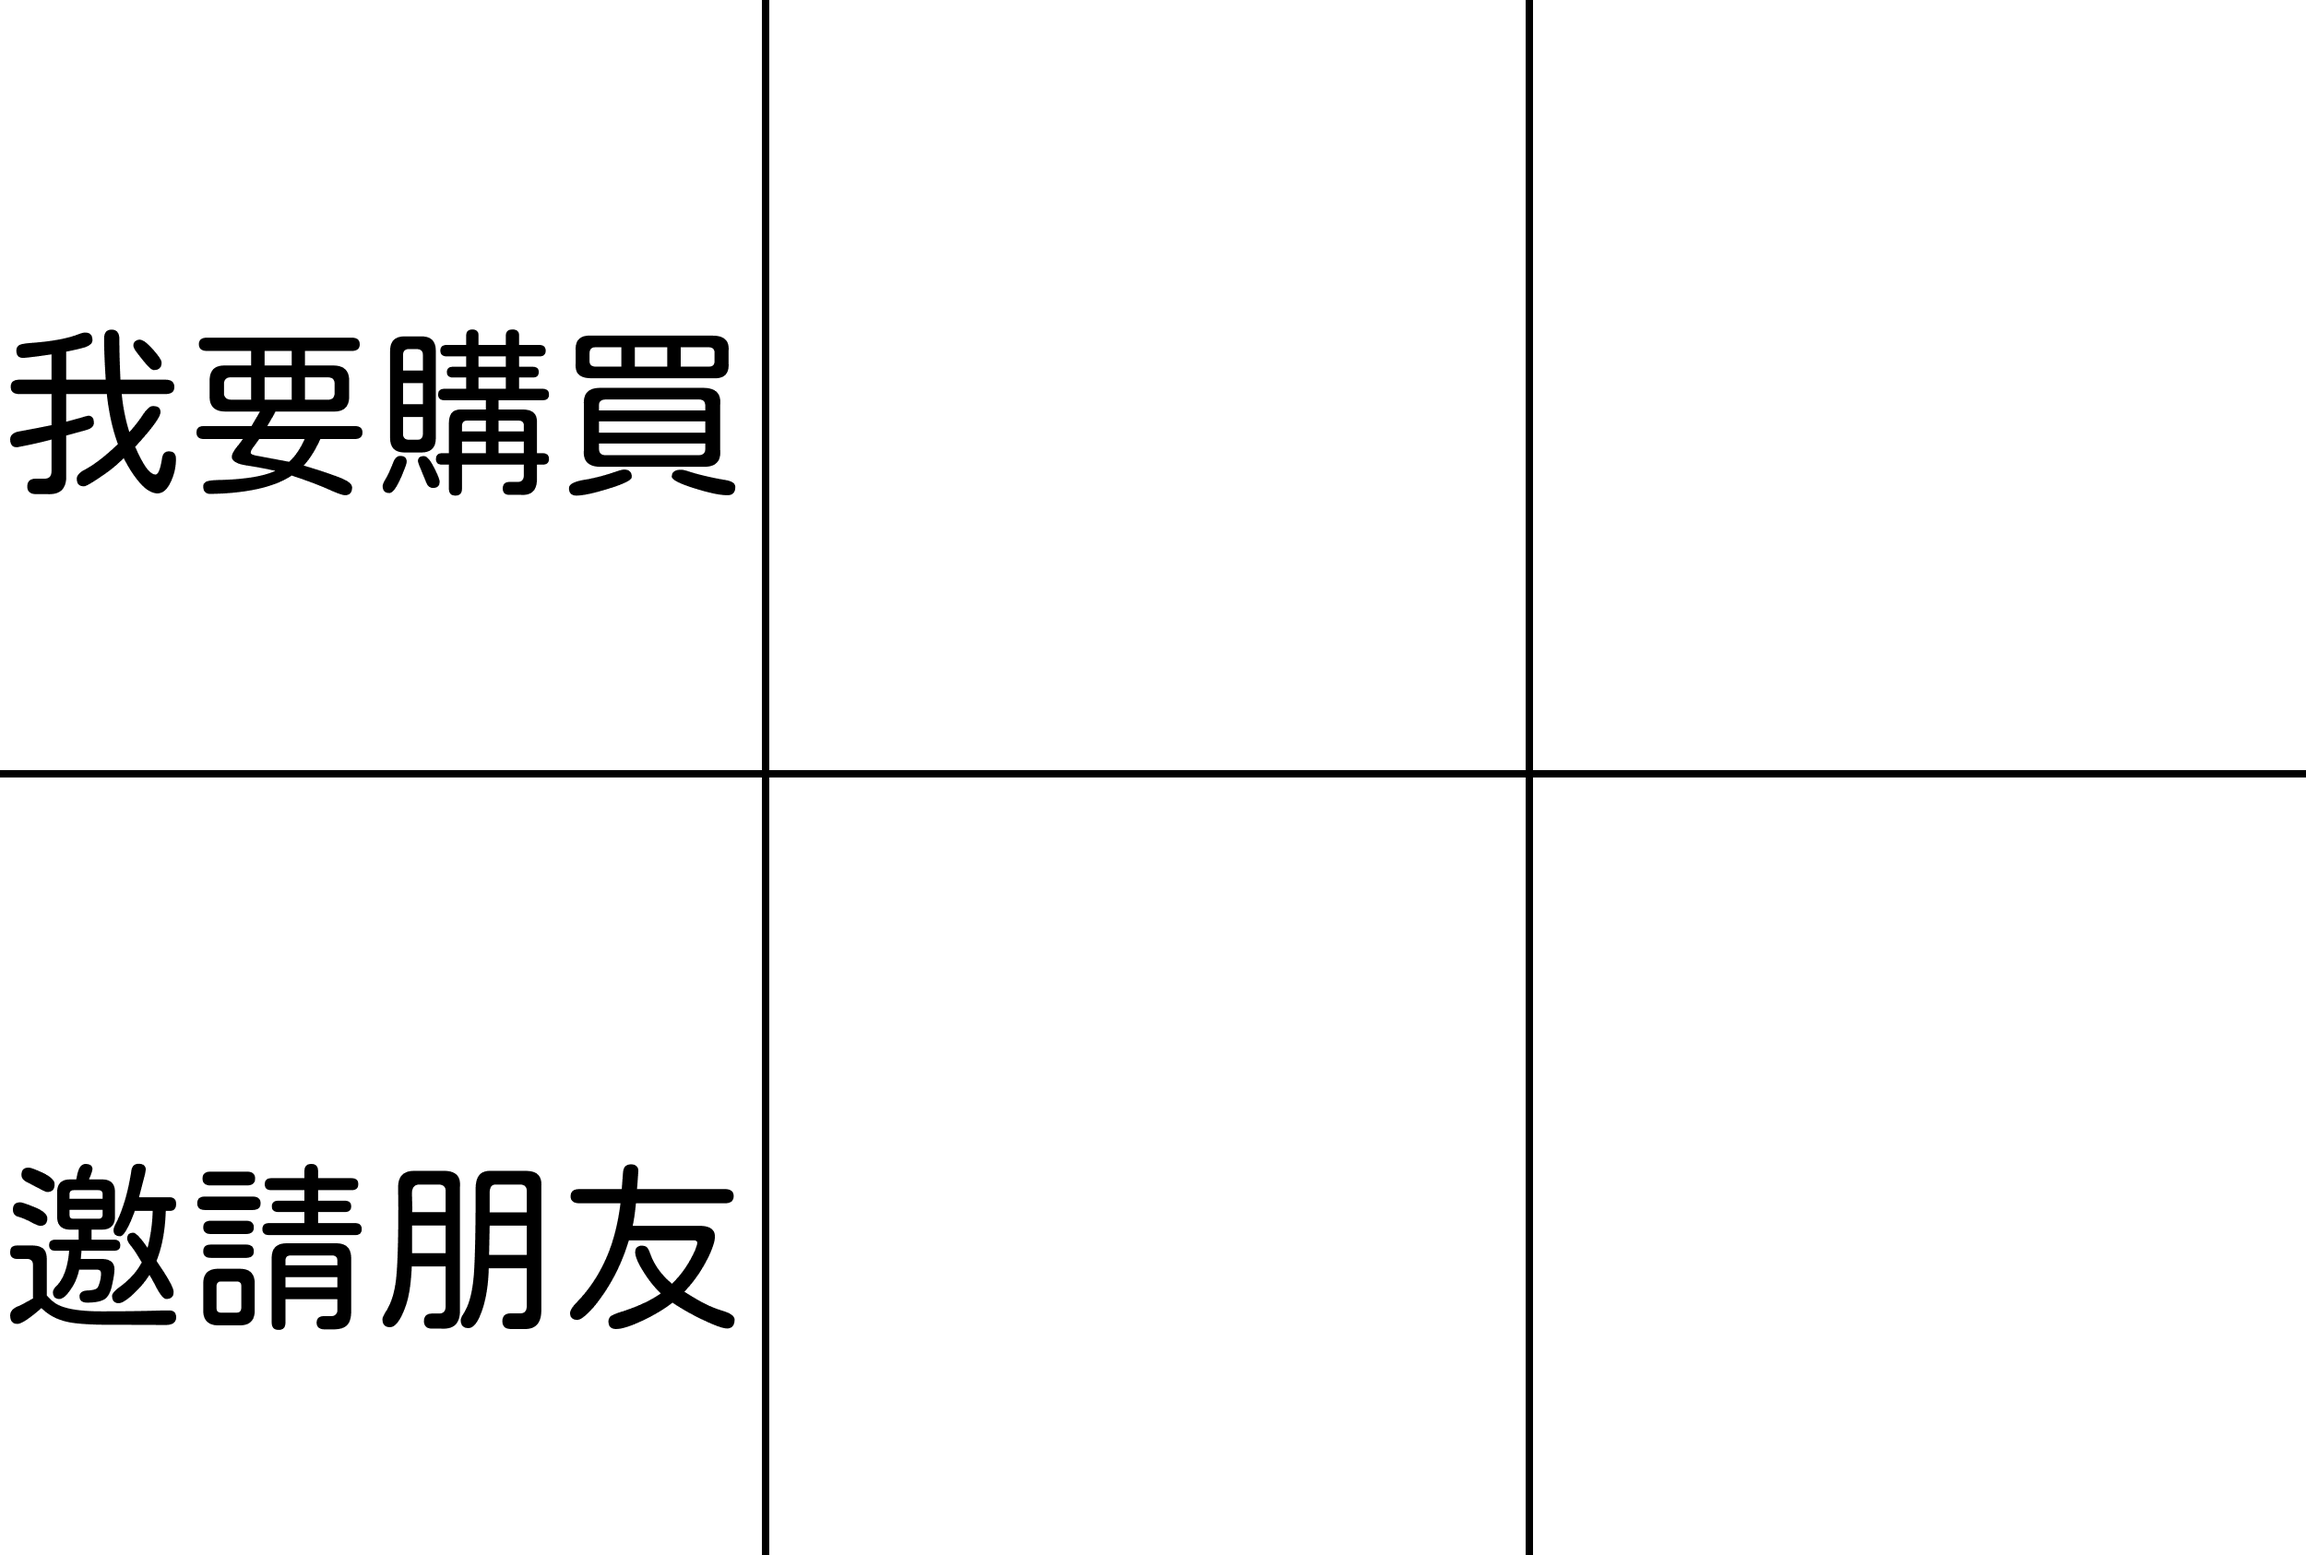
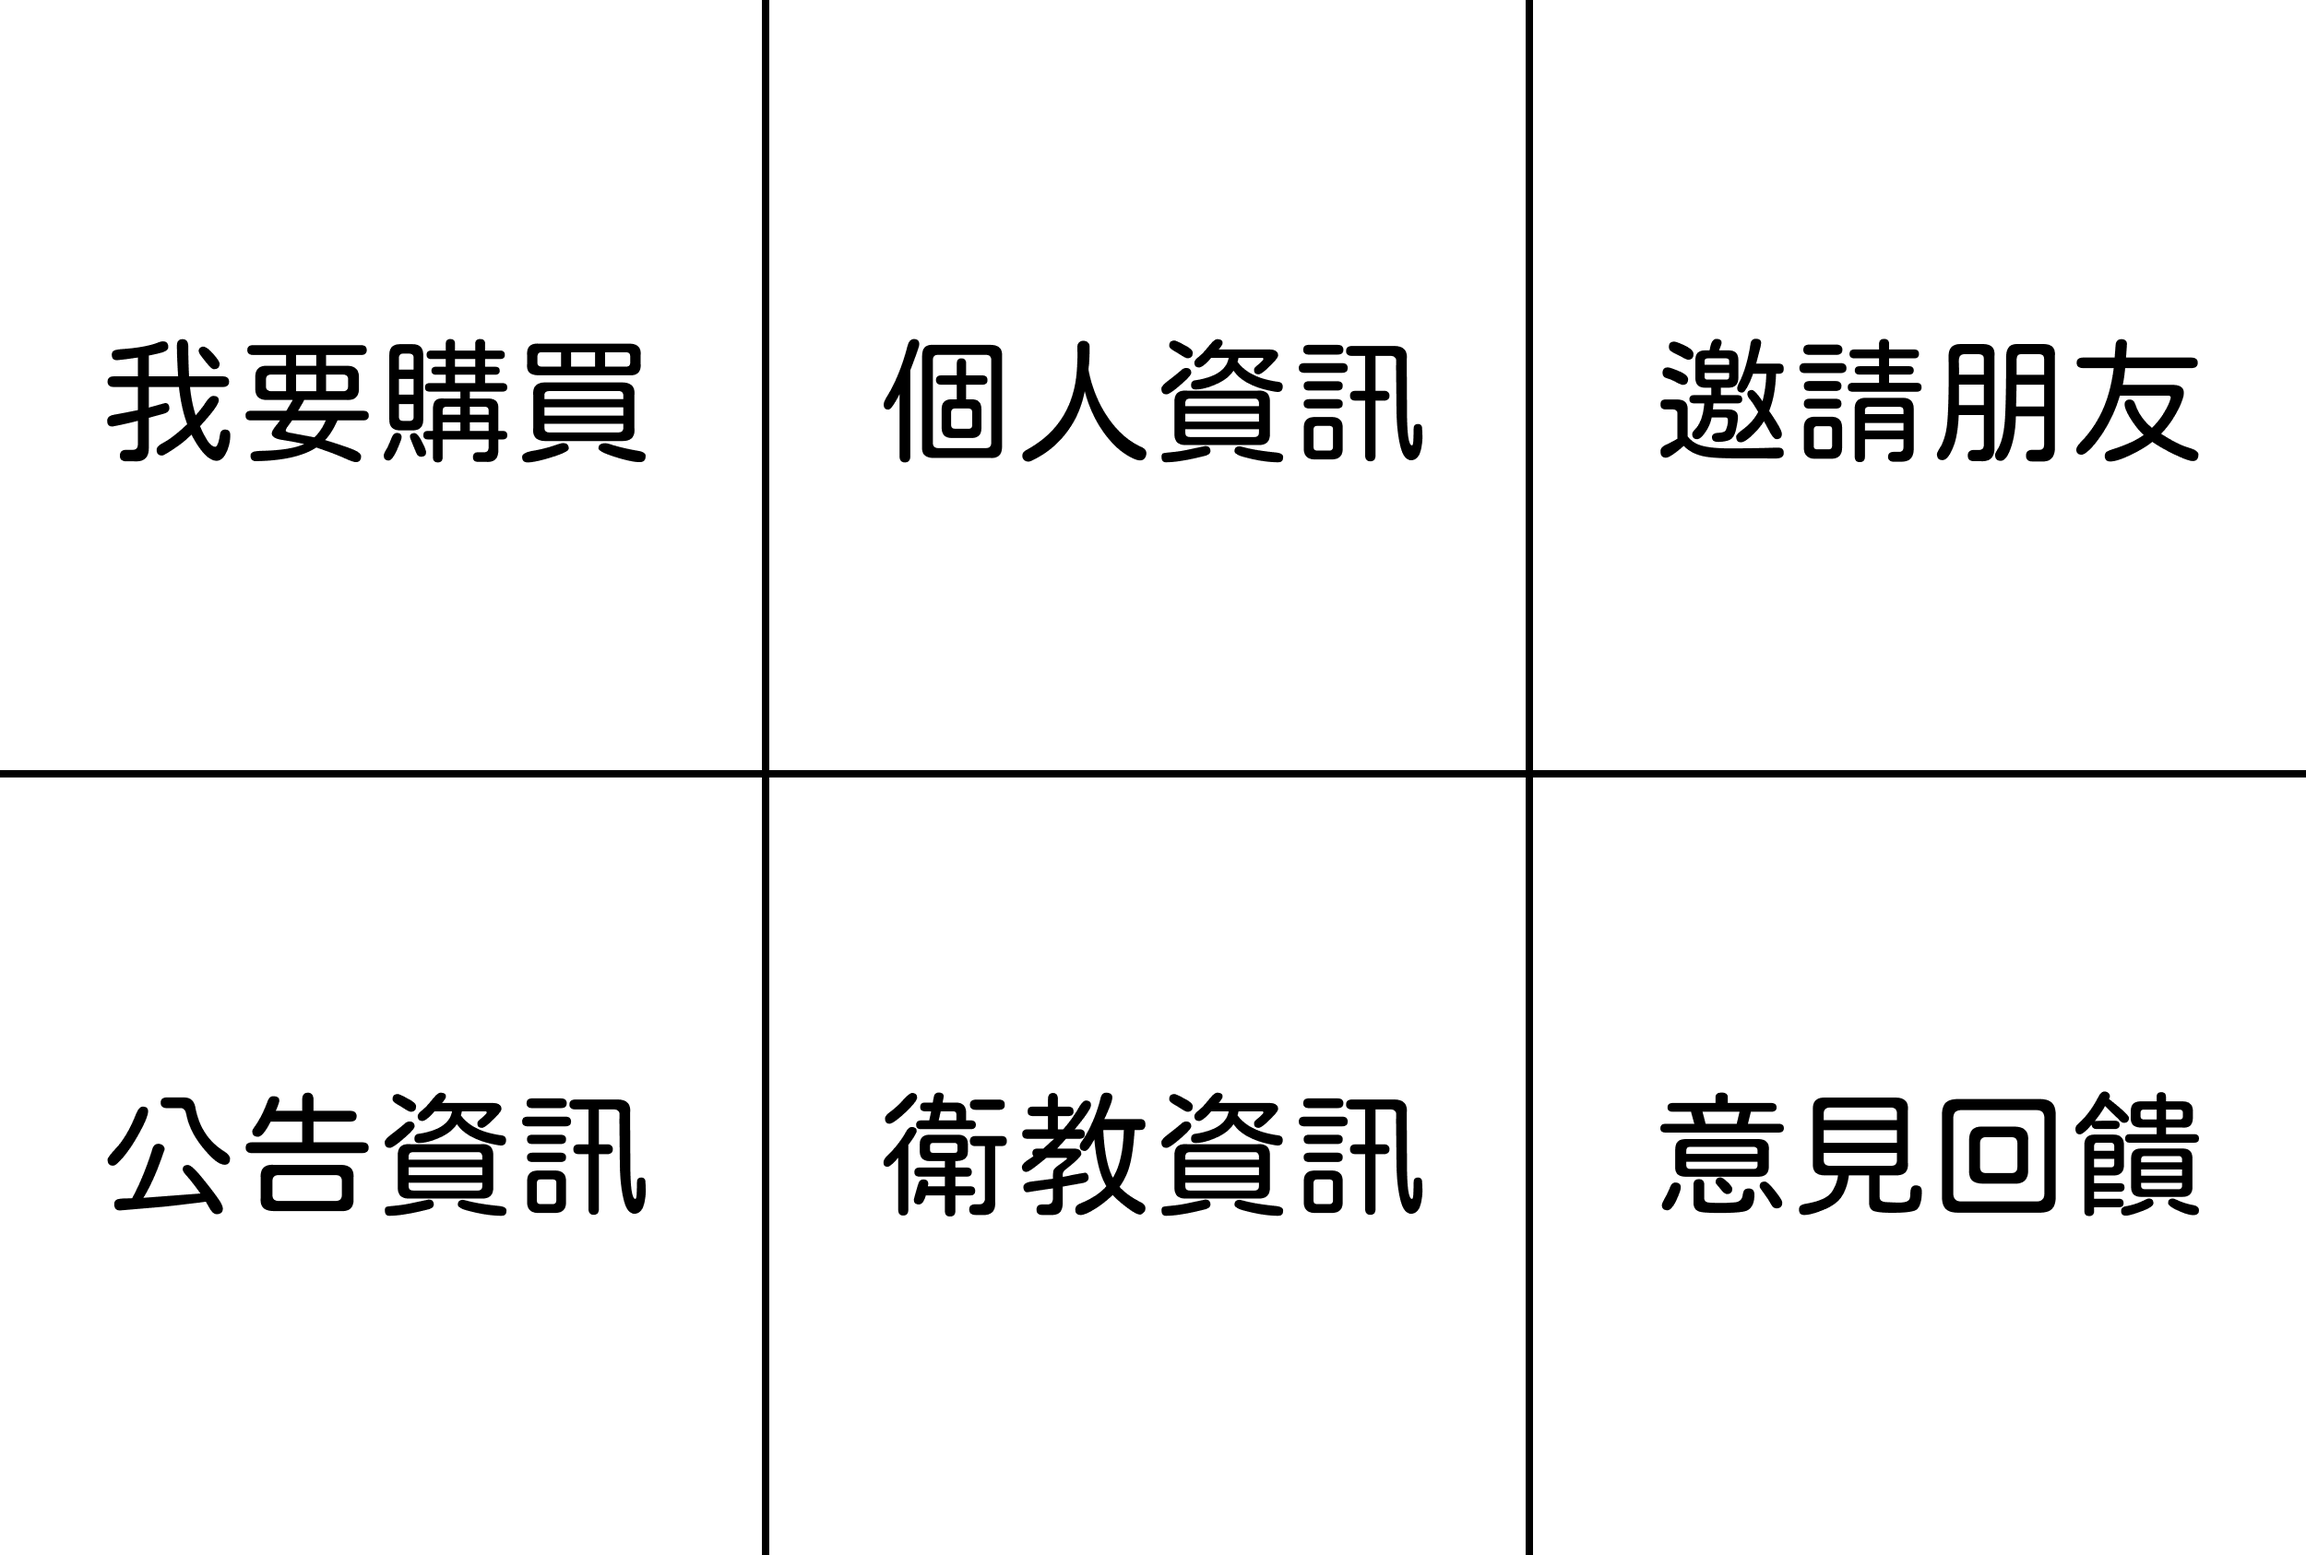
Add new menu

diff --git a/utils/richMenu.js b/utils/richMenu.js
@@ -36,15 +36,15 @@ async function createRichMenu () {
       },
       {
         bounds: {
-          x: 0,
-          y: 843,
+          x: 1666,
+          y: 0,
           width: 833,
           height: 843
         },
         action: {
           type: 'uri',
           label: '邀請朋友',
-          uri: 'https://liff.line.me/1654439637-r0vQnP14?page=profile'
+          uri: 'https://liff.line.me/1654439637-QlJvLenq'
         }
       }
     ]
@@ -56,4 +56,4 @@ async function createRichMenu () {
   await client.setDefaultRichMenu(menu)
 }
 
-// createRichMenu()
+createRichMenu()
